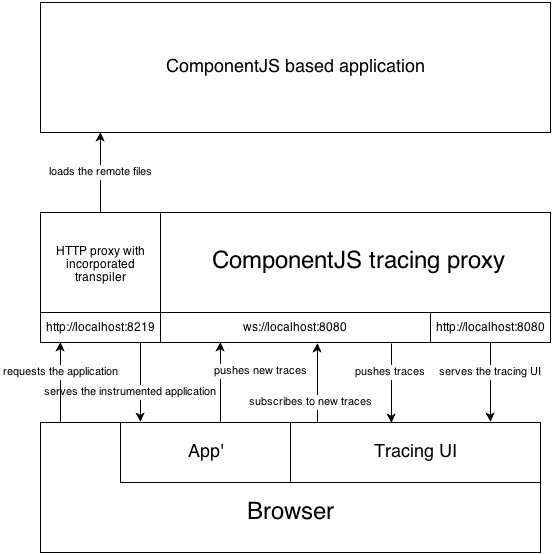
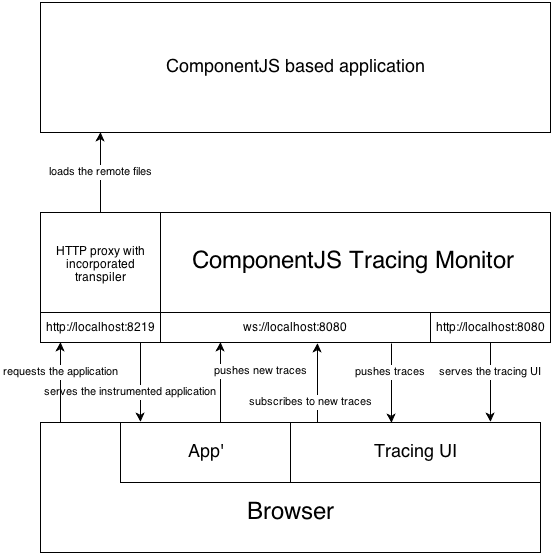
Changed naming of the main artifact

Changed region(s): [[0.3388, 0.4296, 0.9239, 0.491]]

diff --git a/app/ui/index.html b/app/ui/index.html
@@ -12,7 +12,7 @@
 <html>
     <head>
         <meta http-equiv="Content-type" content="text/html; charset=utf-8"/>
-        <title>ComponentJS Tracing</title>
+        <title>ComponentJS Tracing Monitor</title>
 
         <!-- load third-party libraries -->
         <link  href="lib/normalize.css"                         rel="stylesheet" type="text/css"/>

diff --git a/README.md b/README.md
@@ -1,6 +1,6 @@
-#ComponentJS Tracing Proxy
+#ComponentJS Tracing Monitor
 
-Tracing proxy for ComponentJS development support
+Tracing Monitor proxy for ComponentJS development support
 
 ##Overview
 
